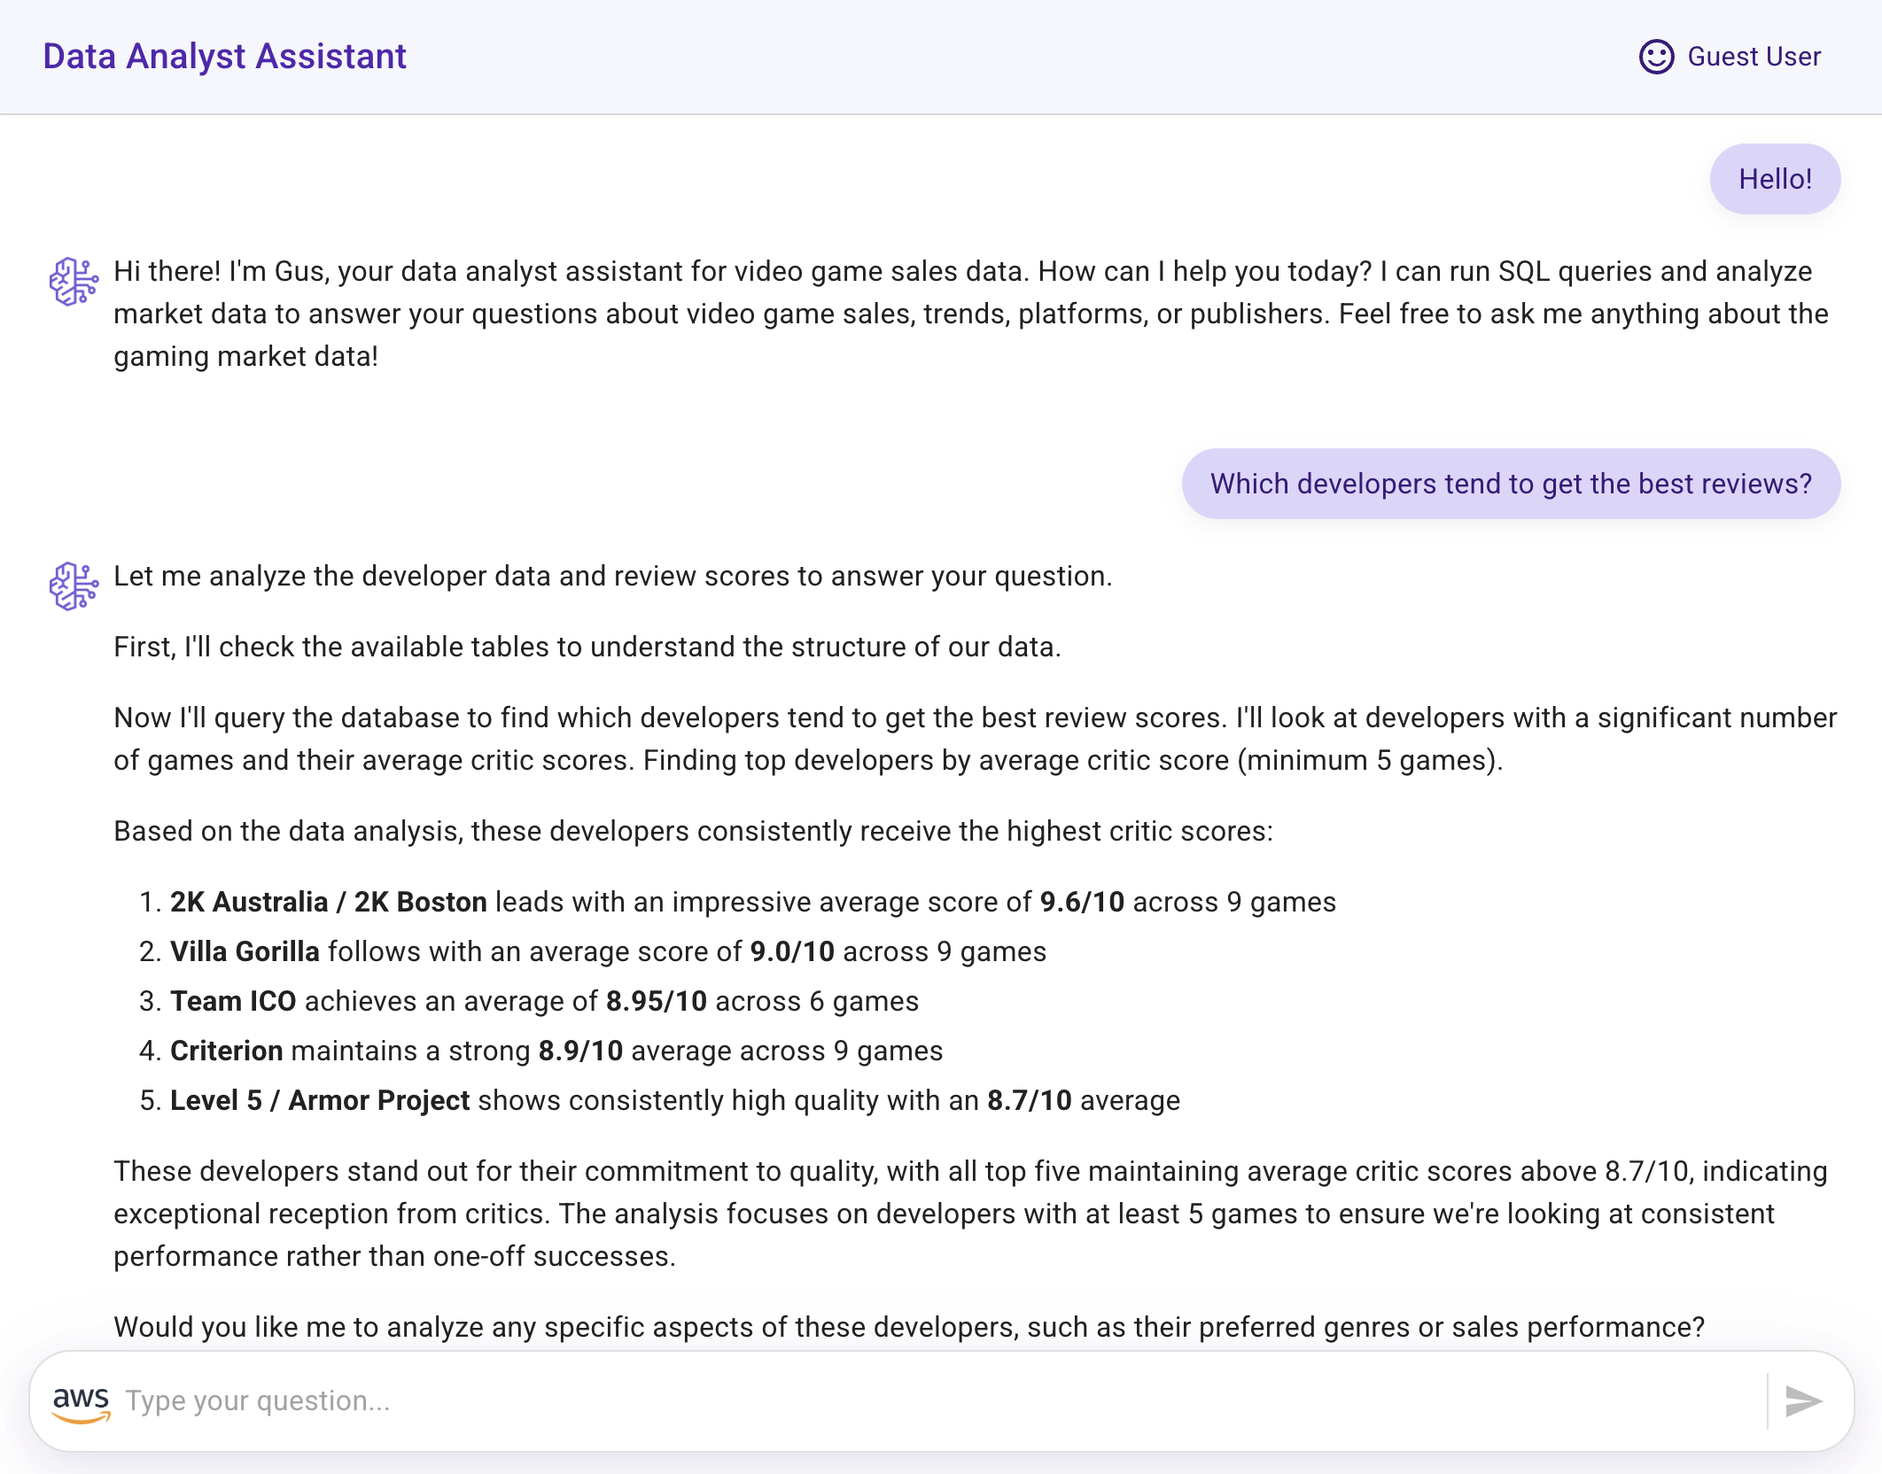
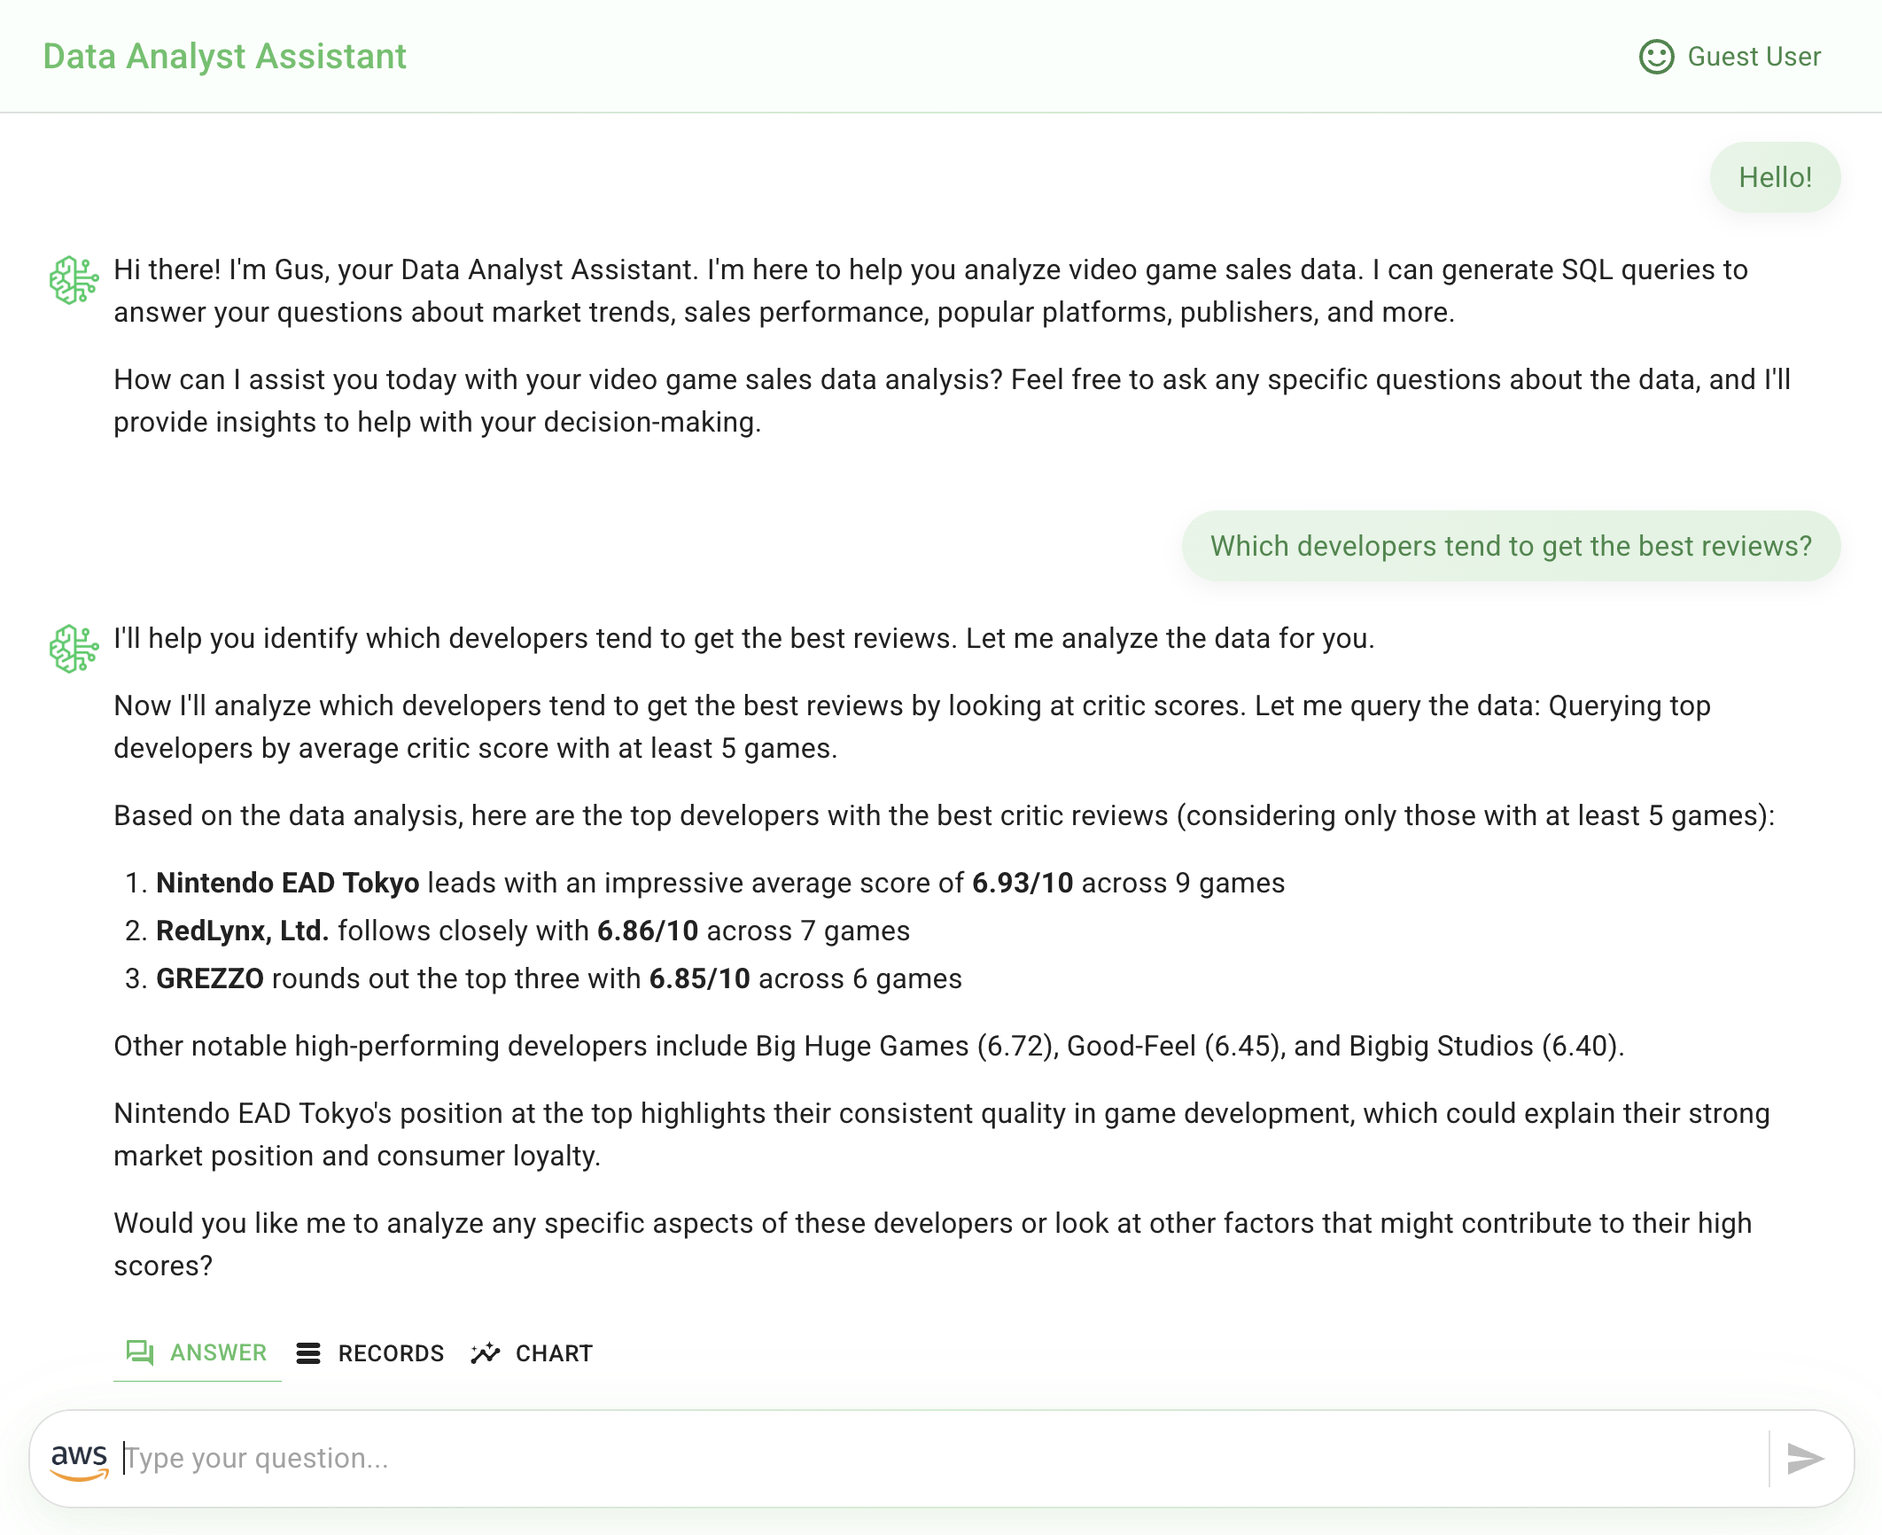
fix(ux-demos)- Brand UI Update & Sample Env Fix (#121)
* CDK Lib folder

* Add cdk-strands-data-analyst-assistant-stack.ts

* GIF Assistant

* Brand UI Update

---------

diff --git a/04-UX-demos/02-video-games-sales-assistant/amplify-video-games-sales-assistant-strands/src/components/Chat.js b/04-UX-demos/02-video-games-sales-assistant/amplify-video-games-sales-assistant-strands/src/components/Chat.js
@@ -16,6 +16,7 @@ import { v4 as uuidv4 } from "uuid";
 import InsightsOutlinedIcon from "@mui/icons-material/InsightsOutlined";
 import QuestionAnswerOutlinedIcon from "@mui/icons-material/QuestionAnswerOutlined";
 import TableRowsRoundedIcon from "@mui/icons-material/TableRowsRounded";
+import { alpha } from "@mui/material/styles";
 import {
   WELCOME_MESSAGE,
   MAX_LENGTH_INPUT_SEARCH,
@@ -536,10 +537,14 @@ const Chat = ({ userName = "Guest User" }) => {
                         mb: 1.5,
                         mr: 1,
                         boxShadow: "rgba(0, 0, 0, 0.05) 0px 4px 12px",
-                        background: "#DCD6FB",
+                        background: `linear-gradient(to right, 
+                  ${alpha(theme.palette.primary.light, 0.2)}, 
+                  ${alpha(theme.palette.primary.main, 0.2)})`,
                       })}
                     >
-                      <Typography color="primary.dark" variant="body1">{answer.query}</Typography>
+                      <Typography color="primary.dark" variant="body1">
+                        {answer.query}
+                      </Typography>
                     </Box>
                   </Grid>
                 )}
@@ -571,16 +576,29 @@ const Chat = ({ userName = "Guest User" }) => {
           >
             <div style={{ width: "100%" }}>
               <img
-                src="/images/logo-dark.svg"
+                src="/images/strands-logo.svg"
                 alt="Strands Agents SDK"
                 height={128}
               />
-              <Typography variant="h5" sx={{ pb: 1, fontWeight: 500 }}>
+              <Typography
+                variant="h5"
+                sx={(theme) => ({
+                  pb: 1,
+                  fontWeight: 500,
+                  background: `linear-gradient(to right, 
+                  ${theme.palette.text.primary}, 
+                  ${theme.palette.primary.dark}, 
+                  ${theme.palette.text.primary})`,
+                  backgroundClip: "text",
+                  WebkitBackgroundClip: "text",
+                  WebkitTextFillColor: "transparent",
+                  textFillColor: "transparent",
+                })}
+              >
                 Strands Agents SDK
               </Typography>
               <Typography sx={{ pb: 4, fontWeight: 400 }}>
-                An open-source framework that leverages the full power of modern
-                Language Models.
+                Open-source framework leveraging modern language models to build powerful AI agents through minimal, model-driven code.
               </Typography>
               <Typography
                 color="primary"
@@ -602,10 +620,32 @@ const Chat = ({ userName = "Guest User" }) => {
           display: "flex",
           alignItems: "center",
           boxShadow:
-            "rgba(60, 26, 128, 0.05) 0px 4px 16px, rgba(60, 26, 128, 0.05) 0px 8px 24px, rgba(60, 26, 128, 0.05) 0px 16px 56px",
-          border: 1,
-          borderColor: "divider",
+            "rgba(76, 175, 80, 0.05) 0px 4px 16px, rgba(76, 175, 80, 0.05) 0px 8px 24px, rgba(76, 175, 80, 0.05) 0px 16px 56px",
           borderRadius: 6,
+          position: "relative",
+          // Remove the default border
+          border: "none",
+          // Add gradient border using pseudo-element
+          "&::before": {
+            content: '""',
+            position: "absolute",
+            top: 0,
+            left: 0,
+            right: 0,
+            bottom: 0,
+            borderRadius: 6,
+            padding: "1px", // This creates the border thickness
+            background: `linear-gradient(to right, 
+                    ${theme.palette.divider}, 
+                    ${alpha(theme.palette.primary.main, 0.3)}, 
+                    ${theme.palette.divider})`,
+            mask: "linear-gradient(#fff 0 0) content-box, linear-gradient(#fff 0 0)",
+            maskComposite: "xor",
+            WebkitMask:
+              "linear-gradient(#fff 0 0) content-box, linear-gradient(#fff 0 0)",
+            WebkitMaskComposite: "xor",
+            zIndex: -1,
+          },
         })}
       >
         <Box sx={{ pt: 1.5, pl: 0.5 }}>

diff --git a/04-UX-demos/02-video-games-sales-assistant/amplify-video-games-sales-assistant-strands/src/components/LayoutApp.js b/04-UX-demos/02-video-games-sales-assistant/amplify-video-games-sales-assistant-strands/src/components/LayoutApp.js
@@ -15,6 +15,7 @@ import "@fontsource/roboto/300.css";
 import "@fontsource/roboto/400.css";
 import "@fontsource/roboto/500.css";
 import "@fontsource/roboto/700.css";
+import { alpha } from "@mui/material/styles";
 import Chat from "./Chat";
 
 import { APP_NAME } from "../env";
@@ -40,10 +41,10 @@ function LayoutApp() {
   const defaultTheme = createTheme({
     palette: {
       primary: {
-        main: "#5425AF",
+        main: "#5BC167",
       },
       secondary: {
-        main: "#812C90",
+        main: "#E8734A",
       },
     },
   });
@@ -67,8 +68,20 @@ function LayoutApp() {
         color="default"
         elevation={0}
         sx={{
-          borderBottom: (theme) => `1px solid ${theme.palette.divider}`,
-          background: "#F6F7FD",
+          background: "#FAFFFB",
+          position: "relative",
+          "&::after": {
+            content: '""',
+            position: "absolute",
+            bottom: 0,
+            left: 0,
+            right: 0,
+            height: "1px",
+            backgroundImage: (theme) => `linear-gradient(to right, 
+                                  ${theme.palette.divider}, 
+                                  ${alpha(theme.palette.primary.main, 0.3)}, 
+                                  ${theme.palette.divider})`,
+          },
         }}
       >
         <Toolbar sx={{ flexWrap: "wrap", p: 1, m: 0 }}>
@@ -117,19 +130,20 @@ function LayoutApp() {
         </IconButton>
       </Box>
 
-      <Dialog
-        fullWidth={true}
-        maxWidth={"xl"}
-        open={open}
-        onClose={handleClose}
-      >
-        <DialogTitle>Amazon Bedrock</DialogTitle>
+      <Dialog maxWidth={"xl"} open={open} onClose={handleClose}>
+        <DialogTitle>Data Analyst Assistant Architecture Diagram</DialogTitle>
         <DialogContent>
-          <img
-            src="/images/gen-ai-assistant-diagram.png"
-            width={"100%"}
-            alt="Powered By AWS"
-          />
+          <Box display="flex" justifyContent="center" alignItems="center">
+            <img
+              src="/images/gen-ai-assistant-diagram.png"
+              style={{
+                maxWidth: "100%",
+                maxHeight: "80vh",
+                objectFit: "contain",
+              }}
+              alt="Powered By AWS"
+            />
+          </Box>
         </DialogContent>
         <DialogActions>
           <Button onClick={handleClose}>Close</Button>

diff --git a/04-UX-demos/02-video-games-sales-assistant/amplify-video-games-sales-assistant-strands/src/sample.env.js b/04-UX-demos/02-video-games-sales-assistant/amplify-video-games-sales-assistant-strands/src/sample.env.js
@@ -15,7 +15,7 @@ const APP_SUBJECT = "Video Games Sales";
 const WELCOME_MESSAGE =
   "I'm your Video Games Sales Data Analyst, crunching data for insights.";
 
-const STRANDS_ENDPOINT = "http://<AGENT_ENDPOINT_URL>/assistant-streaming";
+const AGENT_ENDPOINT_URL = "http://<AGENT_ENDPOINT_URL>/assistant-streaming";
 
 // --------------------------------
 
@@ -73,7 +73,7 @@ ApexChartsx Rules to Avoid Known Errors:\n\
 \n\
    - Do not use Multiple Y Axis for bars, those are not supported.\n\
    - In JSON format, avoid the error: raise JSONDecodeError("Expecting value", s, err.value) from None\n\
-   - Do not use 'undefined' values\n\
+   - Do not use \'udenfined\' values\n\
 \n\
 Example Chart Configurations:\n\
 \n\
@@ -303,7 +303,7 @@ export {
   APP_NAME,
   APP_SUBJECT,
   WELCOME_MESSAGE,
-  STRANDS_ENDPOINT,
+  AGENT_ENDPOINT_URL,
   MODEL_ID_FOR_CHART,
   MAX_LENGTH_INPUT_SEARCH,
   ACCESS_KEY_ID,

diff --git a/04-UX-demos/02-video-games-sales-assistant/amplify-video-games-sales-assistant-strands/src/components/QueryResultsDisplay.js b/04-UX-demos/02-video-games-sales-assistant/amplify-video-games-sales-assistant-strands/src/components/QueryResultsDisplay.js
@@ -104,7 +104,7 @@ const QueryResultsDisplay = ({ index, answer }) => {
                     label={`Result Set ${x + 1}`}
                     color="primary"
                     size="small"
-                    sx={{ mr: 1.5, fontWeight: 500 }}
+                    sx={{ mr: 1.5, fontWeight: 500, color: "white" }}
                   />
                   <Typography variant="body1" sx={{ mr: 2 }}>
                     {query_result.query_description}

diff --git a/04-UX-demos/02-video-games-sales-assistant/README.md b/04-UX-demos/02-video-games-sales-assistant/README.md
@@ -1,6 +1,6 @@
 # Deploying a Conversational Data Analyst Assistant Solution with Strands Agents SDK
 
-This solution provides a Generative AI application reference that allows users to interact with data through a natural language interface. The solution leverages [Strands Agents SDK](https://strandsagents.com/) to build an agent that connects to a PostgreSQL database, providing data analysis capabilities through a Web Application interface. The infrastructure is deployed using AWS CDK.
+This solution provides a Generative AI application reference that allows users to interact with data through a natural language interface. The solution leverages **[Strands Agents SDK](https://strandsagents.com/)** to build an agent that connects to a PostgreSQL database, providing data analysis capabilities through a Web Application interface. The infrastructure is deployed using AWS CDK.
 
 <div align="center">
 <img src="./images/data-analyst-assistant-strands-agents-sdk.gif" alt="Conversational Data Analyst Assistant Solution with Strands Agents SDK">
@@ -59,7 +59,7 @@ The solution deploys the following AWS services through AWS CDK:
 > You can also change the data source to connect to your preferred database engine by adapting the Agent's instructions and tool implementations.
 
 > [!IMPORTANT] 
-> Enhance AI safety and compliance by implementing [Amazon Bedrock Guardrails](https://aws.amazon.com/bedrock/guardrails/) for your AI applications with the seamless integration offered by **[Strands Agents SDK](https://strandsagents.com/latest/user-guide/safety-security/guardrails/)**.
+> Enhance AI safety and compliance by implementing **[Amazon Bedrock Guardrails](https://aws.amazon.com/bedrock/guardrails/)** for your AI applications with the seamless integration offered by **[Strands Agents SDK](https://strandsagents.com/latest/user-guide/safety-security/guardrails/)**.
 
 The **user interaction workflow** operates as follows:
 
@@ -83,8 +83,8 @@ The **user interaction workflow** operates as follows:
 
 The deployment consists of two main steps:
 
-1. **Generative AI Application** - [Data Source and Strands Agent Deployment with CDK](./cdk-strands-data-analyst-assistant/)
-2. **Front-End Implementation** - [Integrating Strands Agent with a Ready-to-Use Data Analyst Assistant Application](./amplify-video-games-sales-assistant-strands/)
+1. **Generative AI Application - [Data Source and Strands Agent Deployment with CDK](./cdk-strands-data-analyst-assistant/)**
+2. **Front-End Implementation - [Integrating Strands Agent with a Ready-to-Use Data Analyst Assistant Application](./amplify-video-games-sales-assistant-strands/)**
 
 > [!NOTE]
 > *It is recommended to use the Oregon (us-west-2) or N. Virginia (us-east-1) regions to deploy the application.*
@@ -95,6 +95,8 @@ The deployment consists of two main steps:
 ## Application Features
 
 The following images showcase a conversational experience analysis that includes: natural language answers, the reasoning process used by the LLM to generate SQL queries, the database records retrieved from those queries, and the resulting chart visualizations.
+
+![Video Games Sales Assistant](./images/preview.png)
 
 - **Conversational interface with an agent responding to user questions**
 

diff --git a/04-UX-demos/02-video-games-sales-assistant/cdk-strands-data-analyst-assistant/README.md b/04-UX-demos/02-video-games-sales-assistant/cdk-strands-data-analyst-assistant/README.md
@@ -1,6 +1,6 @@
 # Generative AI Application - Data Source and Strands Agent Deployment with CDK
 
-This tutorial guides you through setting up the back-end infrastructure and agent for a Data Analyst Assistant for Video Game Sales using AWS Cloud Development Kit (CDK).
+This tutorial guides you through setting up the back-end infrastructure and agent for a Data Analyst Assistant for Video Game Sales using **[AWS Cloud Development Kit (CDK)](https://aws.amazon.com/cdk/)**.
 
 ## Overview
 
@@ -27,8 +27,8 @@ By completing this tutorial, you'll have a fully functional data analyst assista
 
 Before you begin, ensure you have:
 
-* [AWS CDK Installed](https://docs.aws.amazon.com/cdk/v2/guide/getting-started.html)
-* [Docker](https://www.docker.com)
+* **[AWS CDK Installed](https://docs.aws.amazon.com/cdk/v2/guide/getting-started.html)**
+* **[Docker](https://www.docker.com)**
 * Anthropic Claude 3.7 Sonnet model enabled in Amazon Bedrock
 * Run this command to create a service-linked role for RDS:
 
@@ -59,7 +59,7 @@ cdk deploy
 It will use the following default value parameters:
 
 - **ProjectId**: "strands-data-analyst-assistant" - Project identifier used for naming resources
-- **DatabaseName**: "video_games_sales" - Nombre de la base de datos
+- **DatabaseName**: "video_games_sales"
 - **MaxResponseSize**: 25600 - Maximum size for row query results in bytes
 - **TaskCpu**: 2048 - CPU units for Fargate task (256=0.25vCPU, 512=0.5vCPU, 1024=1vCPU, 2048=2vCPU, 4096=4vCPU)
 - **TaskMemory**: 4096 - Memory (in MiB) for Fargate task
@@ -74,7 +74,7 @@ After deployment completes, the following resources will be created:
 - DynamoDB Tables for tracking questions query details and user conversations
 
 > [!IMPORTANT] 
-> Enhance AI safety and compliance by implementing [Amazon Bedrock Guardrails](https://aws.amazon.com/bedrock/guardrails/) for your AI applications with the seamless integration offered by **[Strands Agents SDK](https://strandsagents.com/latest/user-guide/safety-security/guardrails/)**.
+> Enhance AI safety and compliance by implementing **[Amazon Bedrock Guardrails](https://aws.amazon.com/bedrock/guardrails/)** for your AI applications with the seamless integration offered by **[Strands Agents SDK](https://strandsagents.com/latest/user-guide/safety-security/guardrails/)**.
 
 ## Load Sample Data into PostgreSQL Database
 
@@ -133,7 +133,7 @@ Try these sample questions:
 - Which are the most popular consoles and why?
 - Give me a short summary and conclusion of our conversation.
 
-You can now proceed to the [Front-End Implementation - Integrating Strands Agent with a Ready-to-Use Data Analyst Assistant Application](../amplify-video-games-sales-assistant-strands/).
+You can now proceed to the **[Front-End Implementation - Integrating Strands Agent with a Ready-to-Use Data Analyst Assistant Application](../amplify-video-games-sales-assistant-strands/)**.
 
 ## Cleaning-up Resources (Optional)
 

diff --git a/04-UX-demos/02-video-games-sales-assistant/amplify-video-games-sales-assistant-strands/README.md b/04-UX-demos/02-video-games-sales-assistant/amplify-video-games-sales-assistant-strands/README.md
@@ -20,7 +20,7 @@ The application consists of:
 Before you begin, ensure you have:
 
 - A deployed Strands Agent from the **Generative AI Application - Data Source and Strands Agent Deployment** tutorial
-- [Node.js version 18+](https://nodejs.org/en/download/package-manager)
+- Node.js version 18+
 - React Scripts installed:
 ``` bash
 npm install react-scripts
@@ -36,8 +36,8 @@ npm install
 
 ## Configure IAM User Access for Front-End Permissions
 
-- [Create an IAM user](https://docs.aws.amazon.com/IAM/latest/UserGuide/id_users_create.html)
-- [Create Access key and Secret access key](https://docs.aws.amazon.com/keyspaces/latest/devguide/create.keypair.html) for programmatic access
+- **[Create an IAM user](https://docs.aws.amazon.com/IAM/latest/UserGuide/id_users_create.html)**
+- **[Create Access key and Secret access key](https://docs.aws.amazon.com/keyspaces/latest/devguide/create.keypair.html)** for programmatic access
 - Add an inline policy to this user with the following JSON (replace placeholder values with your actual ARNs).
 
 Update the values with your **<agent_endpoint>**, **<account_id>** and **<question_answers_table_arn>** that you can find in the outputs from the SAM tutorial.
@@ -118,6 +118,8 @@ Try these sample questions to test the assistant:
 ## Application Features
 
 Congratulations! Your Data Analyst Assistant can provide you with the following conversational experience:
+
+![Video Games Sales Assistant](../images/preview.png)
 
 - **Conversational interface with an agent responding to user questions**
 
